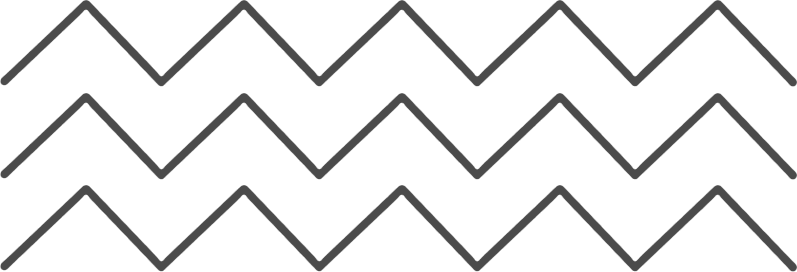
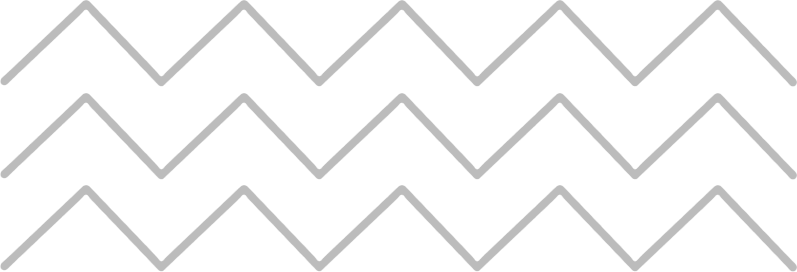
Portfolio

diff --git a/index.html b/index.html
@@ -19,6 +19,7 @@
                 <ul>
                     <li><a href="index.html">HOME</a></li>
                     <li><a href="#about">ABOUT</a></li>
+                    <li><a href="">STACKS</a></li>
                     <li><a href="">PROJECTS</a></li>
                     <li><a href="">CONTACT</a></li>
                 </ul>
@@ -26,7 +27,8 @@
             <nav class="menu-mobile">
                 <ul>
                     <li><a href="index.html">HOME</a></li>
-                    <li><a href="">ABOUT</a></li>
+                    <li><a href="#about">ABOUT</a></li>
+                    <li><a href="">STACKS</a></li>
                     <li><a href="">PROJECTS</a></li>
                     <li><a href="">CONTACT</a></li>
                 </ul>
@@ -36,7 +38,7 @@
 
     <section class="profile">
         <div class="textbox">
-            <img src="Images/circle-texture.png" />
+            <img src="Images/circle-texture.png" alt="circle texture"/>
 
             <div class="textbox-wrap">
                 <h4>MY NAME IS</h4>
@@ -45,14 +47,33 @@
             </div>            
         </div>        
         <div class="profile-picture">
-            <img src="Images/profile-1.png" />
+            <img src="Images/profile-1.png" alt="profile picture humberto"/>
         </div>        
     </section>
 
     <section id="about" class="about">
         <div class="container">
             <div class="about-wrap">
-                <div class="about-picture"></div>
+                <div class="about-picture-wrap">
+                    <div class="about-picture">
+                        <img src="Images/profile-2.png" alt="profile picture humberto"/>
+                    </div>
+                </div>
+
+                <div class="text-about">
+                    <div class="text-about-wrap">
+                        <div class="text-about-wrap-text">
+                            <h4>who am i</h4>
+                            <h1>HELLO</h1>
+                            <div class="line"></div>                     
+                        </div>
+                                            
+                        <div class="text-about-wrap-img">
+                            <img src="Images/zig-zag.png" alt="zig zag">
+                        </div>                         
+                    </div>
+                    <p>Lorem ipsum dolor sit, amet consectetur adipisicing elit. Natus minus voluptatem dicta sint cumque delectus corporis neque, nesciunt maxime eveniet corrupti eligendi incidunt saepe aliquam odit velit, magnam non praesentium.</p>                  
+                </div>
             </div>
         </div>
     </section>

diff --git a/CSS/style.css b/CSS/style.css
@@ -6,7 +6,9 @@
 }
 
 .container{
-    max-width: 1400px;
+    max-width: 1280px;
+    margin: 0 auto;
+    text-align: center;
 }
 
 header{    
@@ -118,7 +120,7 @@ header{
 .textbox .textbox-wrap h4{
     font-size: 50px;
     font-weight: 500;
-    margin-bottom: -35px;
+    margin-bottom: -40px;
     color: white;
     margin-left: -1px;
 }
@@ -132,7 +134,7 @@ header{
 }
 
 .textbox .textbox-wrap h3{
-    max-width: 50%;
+    max-width: 60%;
     font-size: 20px;
     letter-spacing: 2px;
     padding: 5px;
@@ -159,7 +161,6 @@ header{
     max-width:100%;
     max-height:100%; 
     background-size: cover;
-    overflow: hidden;
 }
 
 .about{
@@ -180,7 +181,79 @@ header{
 }
 
 .about-picture{
+    background-color: #202020;
+    justify-content: left;
+    position: relative;
+    left: -100px;
+    top: -20px;
+}
+
+.about-picture img{
+    height: 70%;
+    background-size: cover;
+    position: relative;
+    left: 70px;
+    top: 50px;
+}
+
+.text-about{
     width: 50%;
+}
+
+.text-about-wrap{
+    width: 100%;
+    
+    display: -webkit-box;
+    display: -moz-box;
+    display: -ms-flexbox;
+    display: -webkit-flex;
+    display: flex;
+
+    justify-content: center;
+    align-items: center;  
+}
+
+.text-about-wrap-text{
+    width: 50%;
+    text-align: right;
+    position: relative;    
+}
+
+.text-about-wrap-text h4{
+    font-size: 25px;
+    margin-bottom: -30px;
+    margin-right: 50px;
+}
+
+.text-about-wrap-text h1{
+    font-size: 60px;
+    margin-bottom: -15px; 
+    margin-right: 50px;
+    position: relative;
+    z-index: 10;
+}
+
+.line{
+    height: 30px;
+    width: 210px;
+    background-color: #fff21c;
+    position: absolute;
+    right: 10;
+    bottom: 0;
+}
+
+.text-about p{
+    margin-top: 40px;
+    margin-left: 100px;
+    text-align: left;
+}
+
+.text-about-wrap-img{
+    width: 50%;
+}
+
+.text-about-wrap img{
+    width: 80%;
 }
 
 
